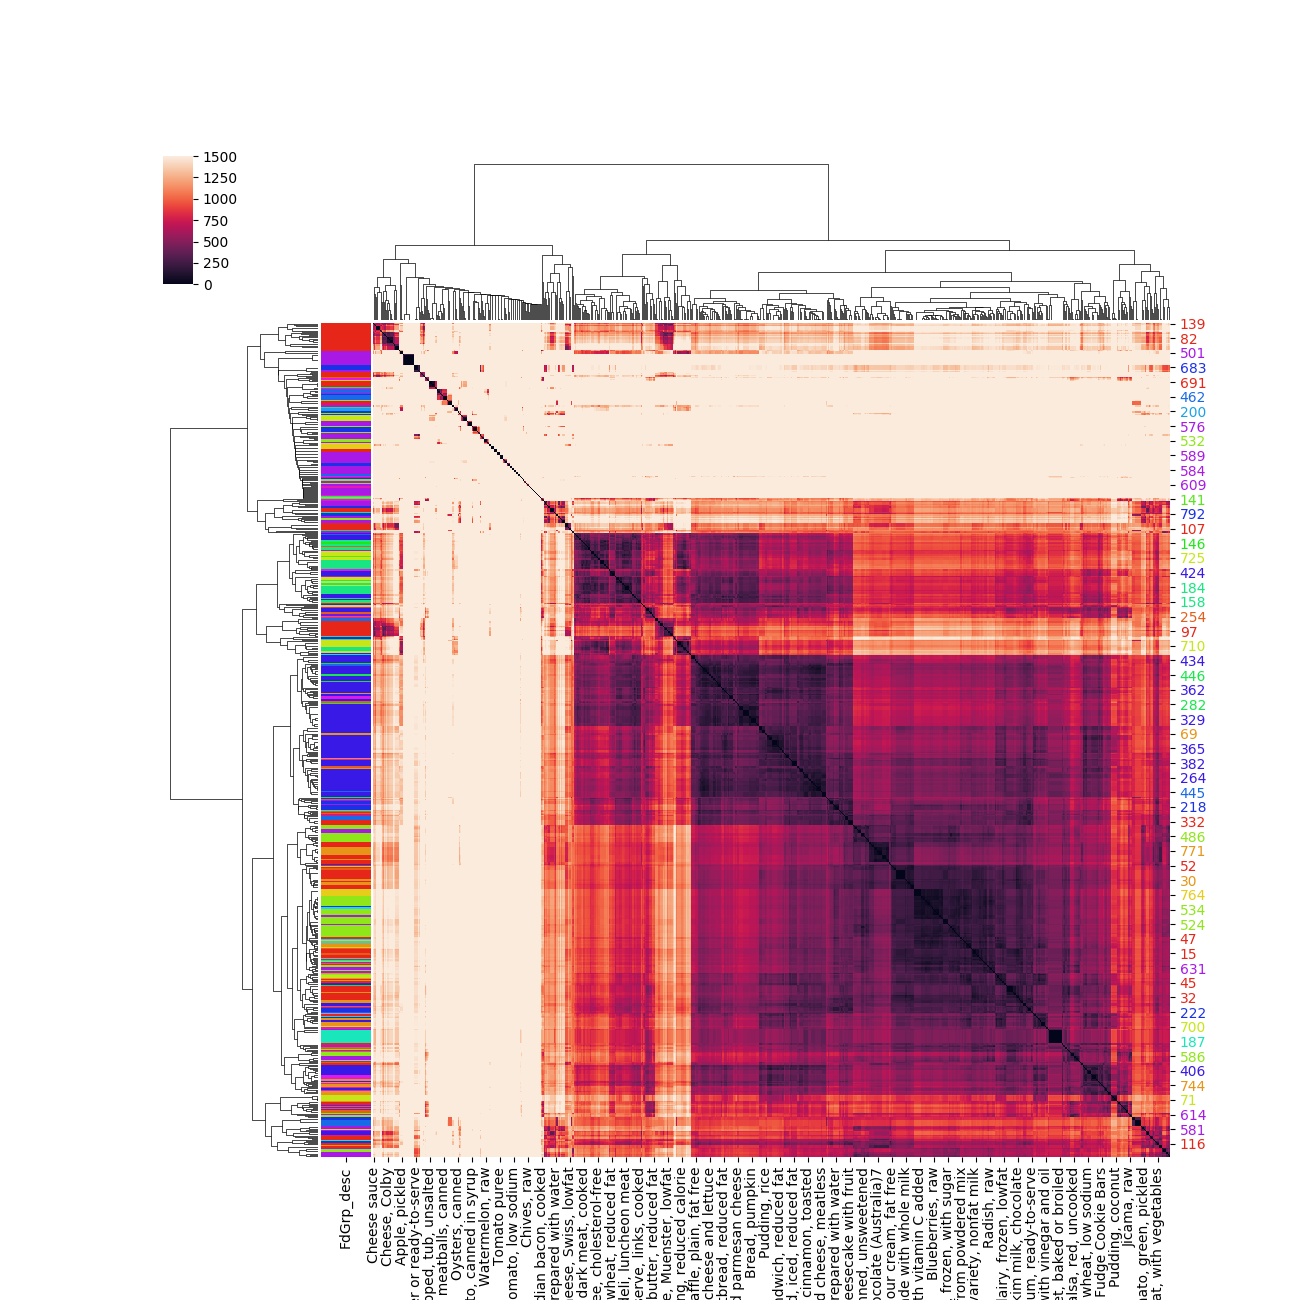
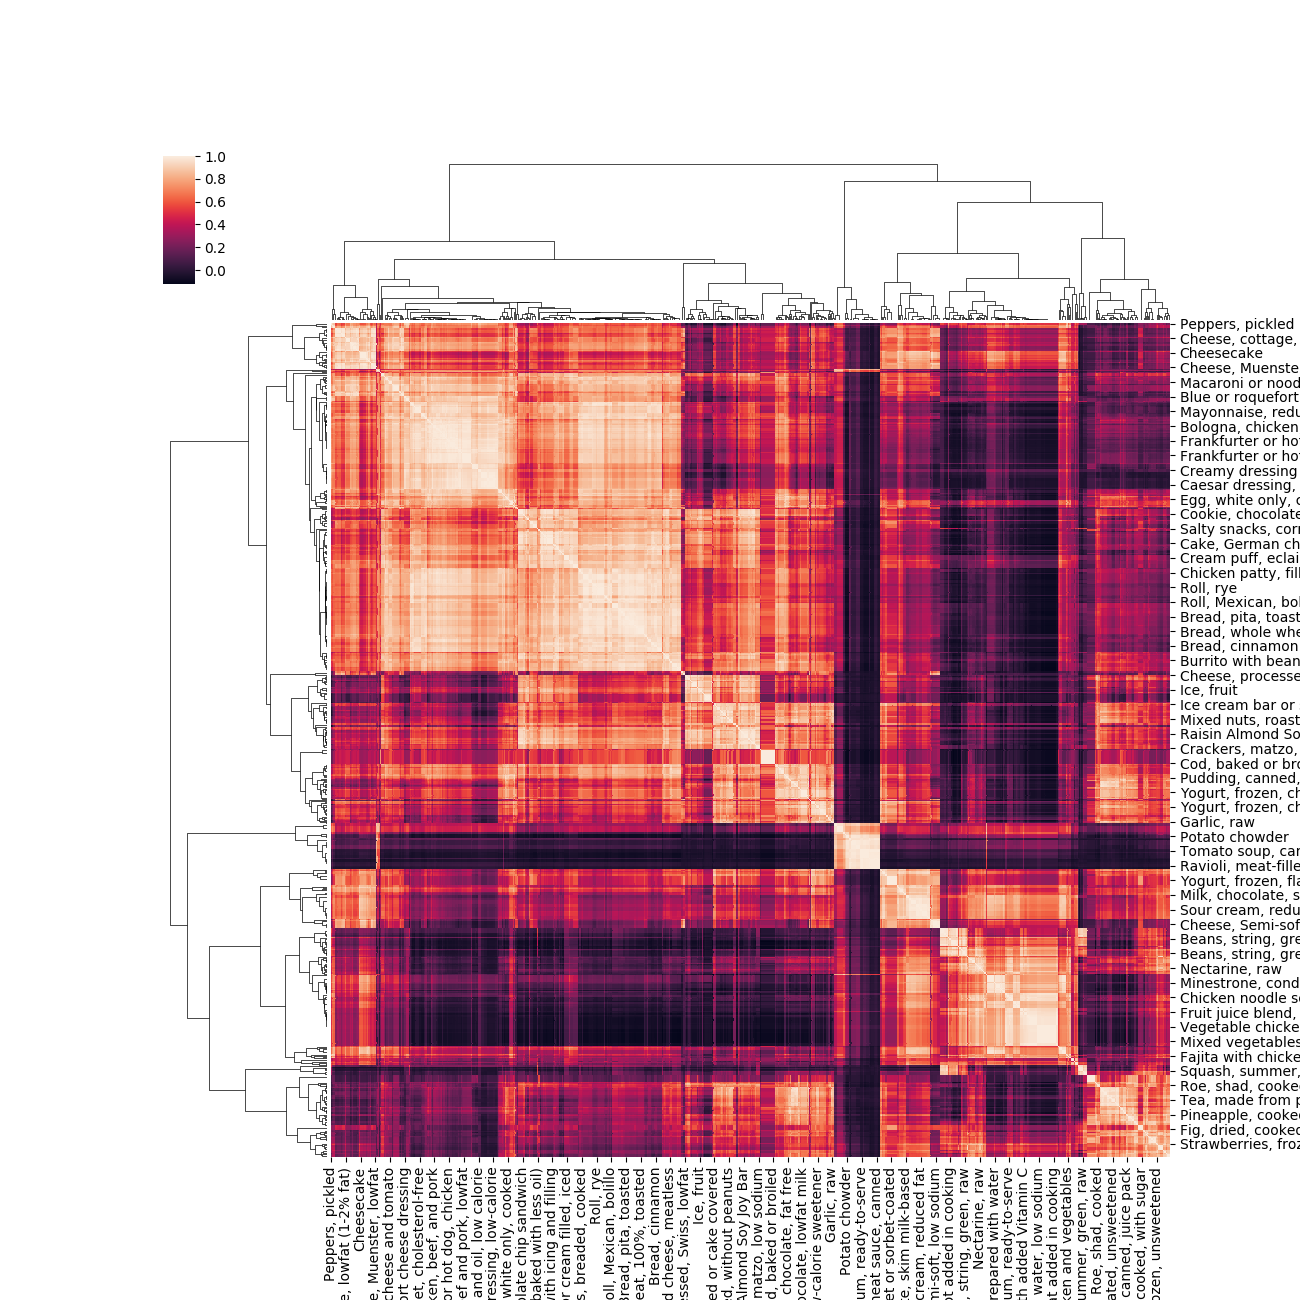
fix correlation

diff --git a/Machine_Learning/ML code.py b/Machine_Learning/ML code.py
@@ -32,13 +32,6 @@ def split_to_train_test(df):
     X = df.drop('GI Value', axis=1, inplace=False)
     y = df['GI Value'].values
     X_train, X_test, y_train, y_test = train_test_split(X, y, test_size=0.1, random_state=33)
-    # X_train.insert(0, 'index', "")
-    # X_test.insert(0, 'index', "")
-
-    # X_train.set_index([pd.Index(list(range(X_train.shape[0]))), 'index'], inplace=True)
-    # X_test.set_index([pd.Index(list(range(X_test.shape[0]))), 'index'], inplace=True)
-
-
     X_train.reset_index(drop=True, inplace=True)
     X_test.reset_index(drop=True, inplace=True)
     euclidean_df = pd.read_excel("Euclidean_distance.xlsx")
@@ -46,37 +39,19 @@ def split_to_train_test(df):
     for i in range(x_test_size):
         food_name = X_test.iloc[i]['Food Description in 1994-96 CSFII']
         for j in range(X_train.shape[0]):
-            # print("i: ", i, " j: ", j)
             if j >= X_train.shape[0]:
                 break
 
-            # a = list(range(X_train.shape[0]))
-            # X_train.set_index([pd.Index(a), 'Food Description in 1994-96 CSFII'], inplace=True)
-            # a = list(range(X_test.shape[0]))
-            # X_test.set_index([pd.Index(a), 'Food Description in 1994-96 CSFII'], inplace=True)
-
             compared_food = X_train.iloc[j]['Food Description in 1994-96 CSFII']
             row_index = euclidean_df.columns.get_loc(food_name)
-            if euclidean_df.iloc[row_index][compared_food] < 10:
-                # print("x_train:", X_train.shape[0])
-                # print("x_test:", X_test.shape[0])
-                # print("y_train:", y_train.shape[0])
-                # print("y_test:", y_test.shape[0])
-
+            if euclidean_df.iloc[row_index][compared_food] < 8:
                 index = X_train.index[X_train['Food Description in 1994-96 CSFII'] == compared_food].tolist()[0]
                 b = X_train.loc[X_train['Food Description in 1994-96 CSFII'] == compared_food]
-                # print("b columns: ", b.shape[1])
-                # print("test columns: ", X_test.shape[1])
                 X_test = X_test.append(b, ignore_index=True)
                 y_test = np.append(y_test, y_train[index])
                 X_train = X_train[X_train['Food Description in 1994-96 CSFII'] != compared_food]
                 X_train.reset_index(drop=True, inplace=True)
                 y_train = np.delete(y_train, index)
-                #
-                # print("x_train:", X_train.shape[0])
-                # print("x_test:", X_test.shape[0])
-                # print("y_train:", y_train.shape[0])
-                # print("y_test:", y_test.shape[0])
 
     print("x_train:", X_train.shape[0])
     print("x_test:", X_test.shape[0])
@@ -128,13 +103,13 @@ if __name__ == '__main__':
 
 
 
-    # X_train, X_test, y_train, y_test = split_to_train_test(ml_df)
+    X_train, X_test, y_train, y_test = split_to_train_test(ml_df)
 
-    X_train, X_test, y_train, y_test = get_train_and_test(ml_df)
-    X_train = X_train.drop(['Food Description in 1994-96 CSFII'], axis='columns')
-    X_test = X_test.drop(['Food Description in 1994-96 CSFII'], axis='columns')
-    X_train = X_train.drop(['FdGrp_desc'], axis='columns')
-    X_test = X_test.drop(['FdGrp_desc'], axis='columns')
+    # X_train, X_test, y_train, y_test = get_train_and_test(ml_df)
+    # X_train = X_train.drop(['Food Description in 1994-96 CSFII'], axis='columns')
+    # X_test = X_test.drop(['Food Description in 1994-96 CSFII'], axis='columns')
+    # X_train = X_train.drop(['FdGrp_desc'], axis='columns')
+    # X_test = X_test.drop(['FdGrp_desc'], axis='columns')
 
     features = list(ml_df.columns.values)
     features.remove('GI Value')
@@ -144,47 +119,33 @@ if __name__ == '__main__':
     # decision tree
     ##########################################################
 
-    print("Decision tree model:\n")
-    # labels = list(ml_df)
-    # labels.remove('Food Description in 1994-96 CSFII')
-    # labels.remove('FdGrp_desc')
-    decision_tree.predict(X_train, X_test, y_train, y_test, features, 'Decision_tree_new_test')
+    # print("Decision tree model:\n")
+    # decision_tree.predict(X_train, X_test, y_train, y_test, features, 'Decision_tree_new_test')
 
     ##########################################################
     # linear regression
     ##########################################################
 
-    print("\n\nLinear regression model:\n")
-    linear_regression_by_features(['Carbohydrt_(g)'], 'LR_carbo_new_test')
-    linear_regression_by_features(['Carbohydrt_(g)', 'Lipid_Tot_(g)'], 'LR_carbo_lipid_new_test')
-    linear_regression_by_features(['Carbohydrt_(g)', 'Lipid_Tot_(g)','Protein_(g)', 'Fiber_TD_(g)', 'Sugar_Tot_(g)'], 'LR_carbo_lipid_pro_fibe_sug_new_test')
+    # print("\n\nLinear regression model:\n")
+    # linear_regression_by_features(['Carbohydrt_(g)'], 'LR_carbo_new_test')
+    # linear_regression_by_features(['Carbohydrt_(g)', 'Lipid_Tot_(g)'], 'LR_carbo_lipid_new_test')
+    # linear_regression_by_features(['Carbohydrt_(g)', 'Lipid_Tot_(g)','Protein_(g)', 'Fiber_TD_(g)', 'Sugar_Tot_(g)'], 'LR_carbo_lipid_pro_fibe_sug_new_test')
 
     # ##########################################################
     # # elastic net
     # ##########################################################
 
-    print("\n\nElastic net model:\n")
-    print("features: ", list(ml_df.columns.values))
-    # features = list(ml_df.columns.values)
-    # features.remove('GI Value')
-    elastic_net.predict(X_train, X_test, y_train, y_test, features, "Elastic_net_new_test")
+    # print("\n\nElastic net model:\n")
+    # print("features: ", list(ml_df.columns.values))
+    # elastic_net.predict(X_train, X_test, y_train, y_test, features, "Elastic_net_new_test")
 
     ##########################################################
     # random forest
     ##########################################################
 
 
-    # print("\n\nRandom Forest model:\n")
-    # # features = list(ml_df.columns.values)
-    # # features.remove('GI Value')
-    # random_forest.predict(X_train, X_test, y_train, y_test, features, 'RF_variable_importance_new_test', 'Random_Forest_new_test')
-
-    # random_forest.predict(X_train, X_test, y_train, y_test, features)
-
-
-
-
-    # random_forest.predict(X_train, X_test, y_train, y_test, features, 'RF_variable_importance_new_test')
+    print("\n\nRandom Forest model:\n")
+    random_forest.predict(X_train, X_test, y_train, y_test, features, 'RF_variable_importance_new_test', 'Random_Forest_new_test')
 
 
 

diff --git a/Plot_Graphs/food_vs_food.py b/Plot_Graphs/food_vs_food.py
@@ -8,30 +8,49 @@ from sklearn import preprocessing
 
 if __name__ == '__main__':
     os.chdir(os.getcwd()[:os.getcwd().index("Plot_Graphs")] + "Excel_files")
-    distances = pd.read_excel("Euclidean_distance_without_names_in_rows.xlsx")
+    gi_usda_df = pd.read_excel("GI_USDA_CLEAN_FOOD_GROUPS.xlsx")
 
-    distances[distances > 1500] = 1500
-    # print(distances.value_counts())
-    # x = distances.values  # returns a numpy array
-    # min_max_scaler = preprocessing.MinMaxScaler()
-    # x_scaled = min_max_scaler.fit_transform(x)
-    # distances = pd.DataFrame(x_scaled)
+    gi_usda_df = gi_usda_df.drop(['CSFII 1994-96 Food Code',
+                     'source table', 'NDB_No', 'reference food & time period', 'serve Size g',
+                     'available cerbo hydrate', 'GL per serve', 'GI_2', 'acc', 'match-sent',
+                     'GmWt_Desc2', 'GmWt_Desc1', 'Manganese_(mg)',
+                     'GmWt_1', 'GmWt_2', 'Panto_Acid_mg)', 'Choline_Tot_ (mg)', 'FdGrp_desc'], axis='columns')
 
-    # plot the heatmap
-    # sns.heatmap(distances,
-    #            xticklabels="",
-    #            yticklabels="", cmap='seismic')
+    median_df = gi_usda_df.median(skipna=True, numeric_only=True)
+    for column in gi_usda_df:
+        if column == "Food Description in 1994-96 CSFII" or column == "FdGrp_desc":
+            continue
+        gi_usda_df[column] = gi_usda_df[column].fillna(median_df[column])
 
-    food_groups = pd.read_excel("GI_USDA_CLEAN_FOOD_GROUPS.xlsx")
-    species = food_groups.pop("FdGrp_desc")
-    lut = dict(zip(species.unique(), sns.hls_palette(len(set(species.unique())), l=0.5, s=0.8)))
-    row_colors = species.map(lut)
-    g = sns.clustermap(distances, row_colors=row_colors, figsize=(13, 13))
+    gi_usda_df.set_index(['Food Description in 1994-96 CSFII'], inplace=True)
 
-    for tick_label in g.ax_heatmap.axes.get_yticklabels():
-        tick_text = tick_label.get_text()
-        species_name = species.loc[int(tick_text)]
-        tick_label.set_color(lut[species_name])
+    gi_usda_df = gi_usda_df.transpose()
+
+    # os.chdir(os.getcwd()[:os.getcwd().index("Plot_Graphs")] + "Excel_files")
+    # distances = pd.read_excel("Euclidean_distance_without_names_in_rows.xlsx")
+    #
+    # distances[distances > 1500] = 1500
+
+    writer = pd.ExcelWriter('trans_df.xlsx', engine='xlsxwriter')
+    gi_usda_df.to_excel(writer, sheet_name='Sheet1')
+    writer.save()
+
+    rows_corr = gi_usda_df.corr()
+    rows_corr.to_csv("rows_correlation.csv")
+
+    #food_groups = pd.read_excel("GI_USDA_CLEAN_FOOD_GROUPS.xlsx")
+    #species = food_groups.pop("FdGrp_desc")
+    #lut = dict(zip(species.unique(), sns.hls_palette(len(set(species.unique())), l=0.5, s=0.8)))
+    #row_colors = species.map(lut)
+    #g = sns.clustermap(rows_corr, row_colors=row_colors, figsize=(13, 13), metric="correlation")
+
+    g = sns.clustermap(rows_corr, figsize=(13, 13), metric="correlation")
+
+
+    # for tick_label in g.ax_heatmap.axes.get_yticklabels():
+    #     tick_text = tick_label.get_text()
+    #     species_name = species.loc[int(tick_text)]
+    #     tick_label.set_color(lut[species_name])
 
     if not os.getcwd().__contains__("Graphs & Photos"):
         os.chdir(os.getcwd()[:os.getcwd().index("Excel_files")] + "Graphs & Photos")

diff --git a/Machine_Learning/random_forest.py b/Machine_Learning/random_forest.py
@@ -124,6 +124,7 @@
 #
 #
 #
+import sklearn
 
 from sklearn.ensemble import RandomForestRegressor
 from sklearn.metrics import mean_absolute_error
@@ -178,12 +179,6 @@ def predict(X_train, X_test, y_train, y_test, lables, pic_name1, pic_name2):
     feature_imp = best_random.feature_importances_
 
     features_dict = dict(zip(lables, feature_imp))
-    # f = [(d, c) for d, c in zip(lables, feature_imp)]
-    # features_str = ""
-    # for a, b in f:
-    #     features_str += a + ": " + str(b) + ", "
-    # features_str = features_str[:-2]
-
     print(features_dict)
 
     indices = np.argsort(feature_imp)
@@ -202,6 +197,14 @@ def predict(X_train, X_test, y_train, y_test, lables, pic_name1, pic_name2):
     plt.savefig(pic_name1 + '.png')
 
     plt.close()
+    plot_graphs(X_test, y_test, cv_predictions, lables, rf_random, pic_name2)
+
+def plot_graphs(X_test, y_test, cv_predictions, lables, rf_random, pic_name2):
+    # Plot outputs
+
+    print("mean absolute error: ", mean_absolute_error(y_test, cv_predictions))
+    print("r2 error: ", sklearn.metrics.r2_score(y_test, cv_predictions))
+
     plt.scatter(X_test['Carbohydrt_(g)'], y_test, color='blue', s=15)
     plt.scatter(X_test['Carbohydrt_(g)'], cv_predictions, color='red', s=10)
 
@@ -217,12 +220,9 @@ def predict(X_train, X_test, y_train, y_test, lables, pic_name1, pic_name2):
             'size': 16,
             }
     plt.title(pic_name2, fontdict=font)
-    # plt.xlabel('Model Error = ' + str(mean_absolute_error(y_test, predict)) + '\n' +
-    #            "coefficients: " + '\n' +
-    #            features_str, fontsize=5)
-
-    # plt.xlabel('Model Error = ' + str(mean_absolute_error(y_test, predict)) + '\n' +
-    #            "coefficients: " + '\n')
+    plt.xlabel('Mean absolute Error = ' + str(mean_absolute_error(y_test, cv_predictions)) + '\n' +
+               'R2 score = ' + str(sklearn.metrics.r2_score(y_test, cv_predictions)),
+                fontsize=5)
 
     if not os.getcwd().__contains__("Graphs & Photos"):
         os.chdir(os.getcwd()[:os.getcwd().index("Excel_files")] + "Graphs & Photos")
